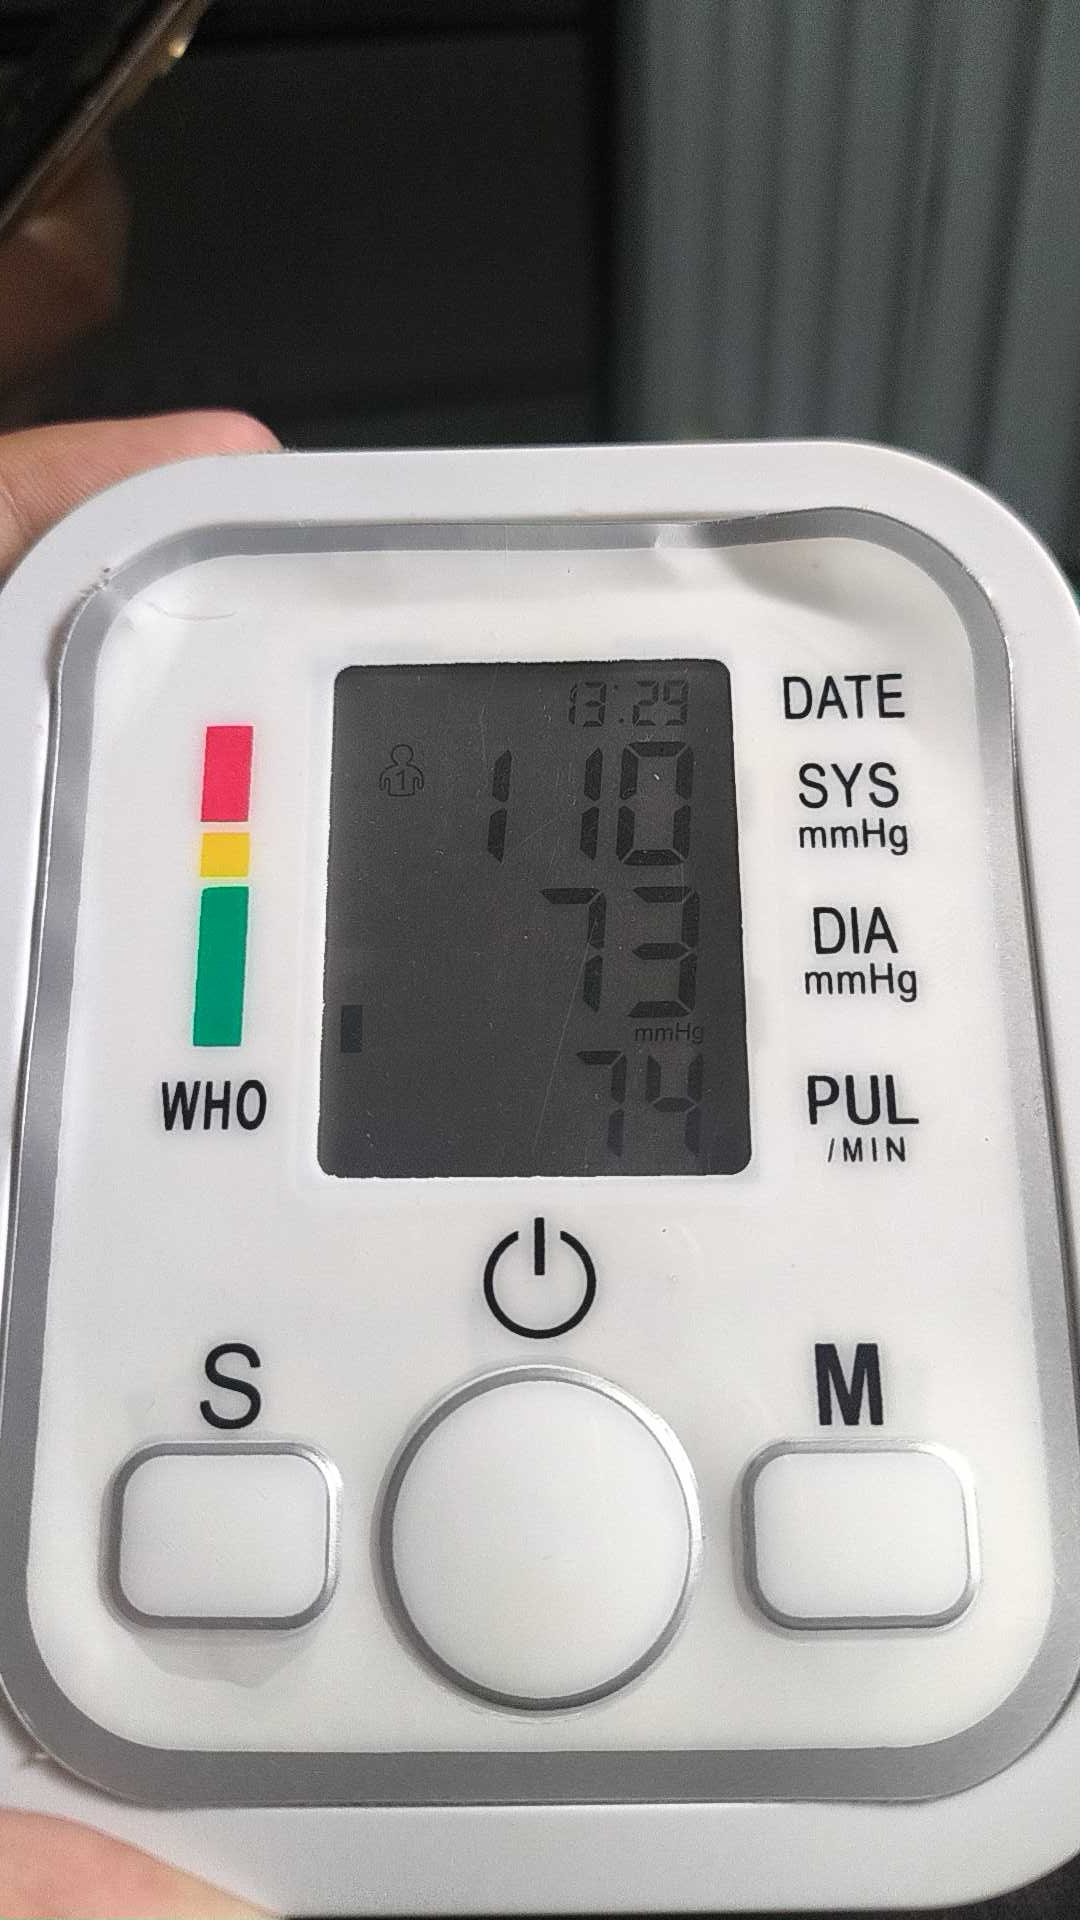
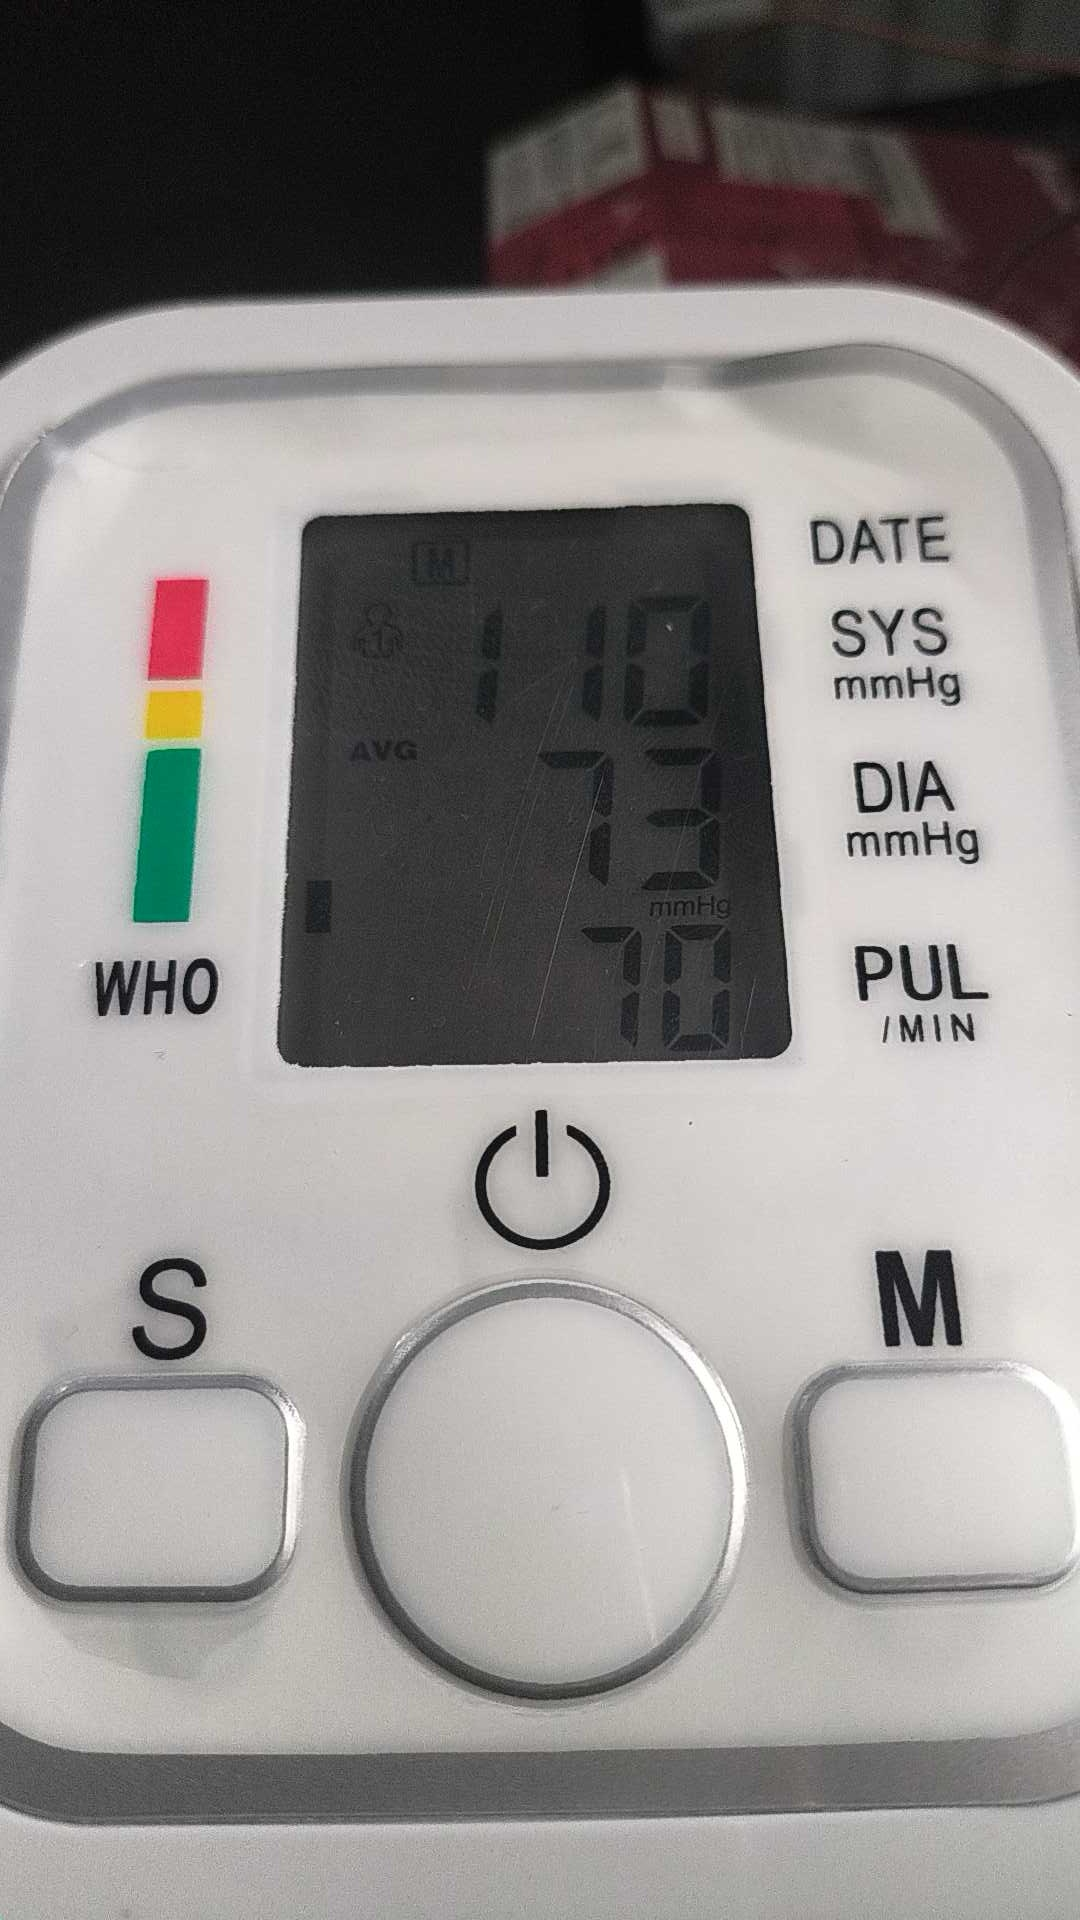
init

diff --git a/bp_ocr.py b/bp_ocr.py
@@ -1,0 +1,157 @@
+#!/usr/bin/env python3
+"""
+bp_ocr.py -- read SYS / DIA / PUL off a blood-pressure monitor's LCD with a
+             camera + seven-segment OCR, for the Medi-Kiosk Pi 4B.
+
+  python3 bp_ocr.py calib          # capture + draw ROI boxes -> calib.png
+  python3 bp_ocr.py shot           # capture one frame -> bp.jpg
+  python3 bp_ocr.py prep           # write thresholded ROI images to inspect
+  python3 bp_ocr.py read           # one reading
+  python3 bp_ocr.py watch          # keep reading until N frames agree
+
+Needs:  sudo apt install python3-opencv python3-requests ssocr
+"""
+
+import subprocess
+import sys
+import time
+
+import cv2
+import numpy as np
+import requests
+
+# ---------------------------------------------------------------- config ---
+URL      = "http://192.168.1.8:8080/shot.jpg"   # IP Webcam still endpoint
+ROTATE   = cv2.ROTATE_90_CLOCKWISE              # set to None once mounted upright
+
+# Crop boxes as (y1, y2, x1, x2), in pixels of the ROTATED frame.
+# Run `calib` and adjust these until each box tightly hugs one row of digits.
+ROIS = {
+    "sys": (730,  870, 470, 710),
+    "dia": (870, 1020, 470, 710),
+    "pul": (1030, 1170, 470, 710),
+}
+
+# Plausibility limits -- a reading outside these is treated as a misread.
+LIMITS = {"sys": (60, 260), "dia": (30, 160), "pul": (30, 200)}
+
+AGREE_FRAMES = 3      # how many consecutive identical readings to trust
+MAX_TRIES    = 25     # give up after this many frames
+# ---------------------------------------------------------------------------
+
+
+def capture():
+    """Grab one frame from the camera and return it as a BGR image."""
+    r = requests.get(URL, timeout=5)
+    r.raise_for_status()
+    frame = cv2.imdecode(np.frombuffer(r.content, np.uint8), cv2.IMREAD_COLOR)
+    if frame is None:
+        raise RuntimeError("could not decode image from camera")
+    if ROTATE is not None:
+        frame = cv2.rotate(frame, ROTATE)
+    return frame
+
+
+def prep_roi(frame, box, scale=3):
+    """Crop one digit row and turn it into clean white-on-black for ssocr."""
+    y1, y2, x1, x2 = box
+    roi = frame[y1:y2, x1:x2]
+    roi = cv2.resize(roi, None, fx=scale, fy=scale, interpolation=cv2.INTER_CUBIC)
+
+    g = cv2.cvtColor(roi, cv2.COLOR_BGR2GRAY)
+    # The LCD is low-contrast grey-on-grey, so lift local contrast first.
+    g = cv2.createCLAHE(clipLimit=3.0, tileGridSize=(8, 8)).apply(g)
+    g = cv2.GaussianBlur(g, (5, 5), 0)
+    # Digits are DARKER than the background -> INV so they come out white.
+    th = cv2.adaptiveThreshold(g, 255, cv2.ADAPTIVE_THRESH_GAUSSIAN_C,
+                               cv2.THRESH_BINARY_INV, 71, 12)
+    # Close small gaps inside segments, then drop specks.
+    th = cv2.morphologyEx(th, cv2.MORPH_CLOSE, np.ones((5, 5), np.uint8))
+    th = cv2.morphologyEx(th, cv2.MORPH_OPEN,  np.ones((3, 3), np.uint8))
+    return th
+
+
+def ocr(th):
+    """Run ssocr on a prepared image. Returns an int, or None if unreadable."""
+    cv2.imwrite("/tmp/_ssocr.png", th)
+    try:
+        out = subprocess.run(
+            ["ssocr", "-d", "-1", "--number-pixels=3", "invert", "/tmp/_ssocr.png"],
+            capture_output=True, text=True, timeout=10)
+    except (subprocess.TimeoutExpired, FileNotFoundError):
+        return None
+    digits = "".join(c for c in out.stdout if c.isdigit())
+    return int(digits) if digits else None
+
+
+def read_once(frame=None):
+    """Read all three fields from one frame. Values may be None."""
+    if frame is None:
+        frame = capture()
+    result = {}
+    for name, box in ROIS.items():
+        val = ocr(prep_roi(frame, box))
+        lo, hi = LIMITS[name]
+        result[name] = val if (val is not None and lo <= val <= hi) else None
+    return result
+
+
+# ------------------------------------------------------------- commands ----
+def cmd_calib():
+    frame = capture()
+    ov = frame.copy()
+    colours = {"sys": (0, 0, 255), "dia": (0, 180, 0), "pul": (255, 0, 0)}
+    for name, (y1, y2, x1, x2) in ROIS.items():
+        c = colours[name]
+        cv2.rectangle(ov, (x1, y1), (x2, y2), c, 4)
+        cv2.putText(ov, name.upper(), (x1 - 95, y1 + 55),
+                    cv2.FONT_HERSHEY_SIMPLEX, 1.3, c, 3)
+    cv2.imwrite("calib.png", ov)
+    print(f"frame {frame.shape} -> calib.png  (check each box hugs one row)")
+
+
+def cmd_shot():
+    frame = capture()
+    cv2.imwrite("bp.jpg", frame)
+    print(f"saved bp.jpg {frame.shape}")
+
+
+def cmd_prep():
+    frame = capture()
+    for name, box in ROIS.items():
+        th = prep_roi(frame, box)
+        cv2.imwrite(f"prep_{name}.png", th)
+        print(f"prep_{name}.png  ->  ssocr says: {ocr(th)}")
+    print("\nWant: solid white digits, black background, nothing else.")
+
+
+def cmd_read():
+    r = read_once()
+    print(f"SYS:{r['sys']} DIA:{r['dia']} PUL:{r['pul']}")
+
+
+def cmd_watch():
+    """Only accept a reading once it repeats identically N times."""
+    last, streak = None, 0
+    for i in range(MAX_TRIES):
+        r = read_once()
+        key = (r["sys"], r["dia"], r["pul"])
+        ok = all(v is not None for v in key)
+        streak = streak + 1 if (ok and key == last) else (1 if ok else 0)
+        last = key if ok else None
+        print(f"  [{i+1:2d}] {key}  streak={streak}")
+        if streak >= AGREE_FRAMES:
+            print(f"\nSYS:{key[0]} DIA:{key[1]} PUL:{key[2]}")
+            return
+        time.sleep(0.4)
+    print("\nno stable reading -- check framing, focus, glare")
+
+
+if __name__ == "__main__":
+    cmds = {"calib": cmd_calib, "shot": cmd_shot, "prep": cmd_prep,
+            "read": cmd_read, "watch": cmd_watch}
+    fn = cmds.get(sys.argv[1] if len(sys.argv) > 1 else "")
+    if fn:
+        fn()
+    else:
+        print(__doc__)